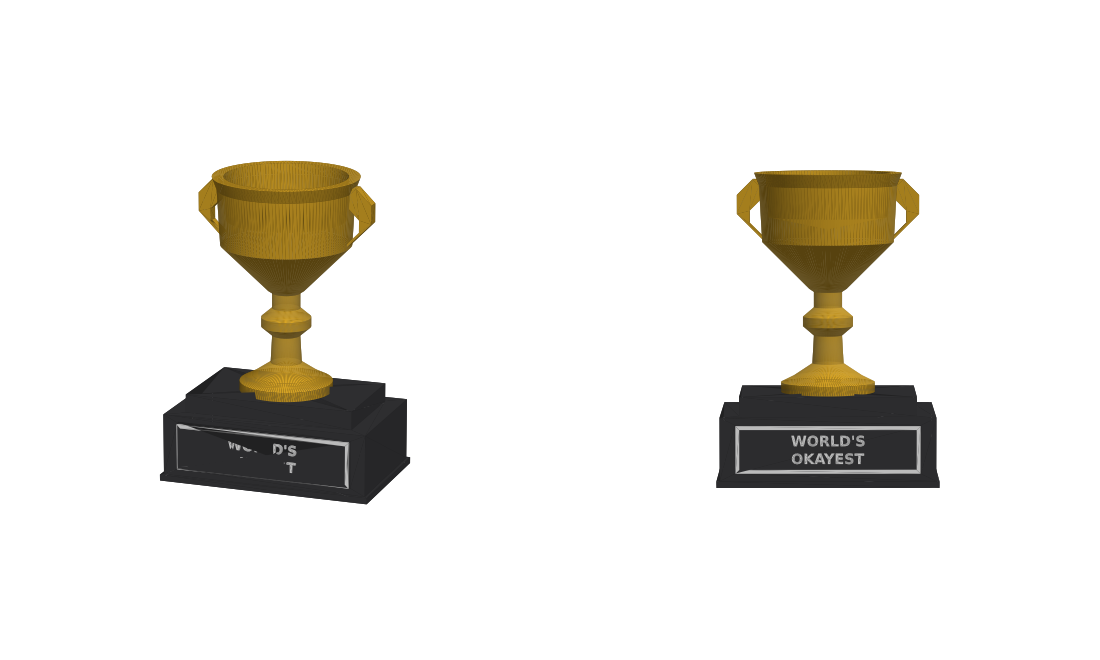
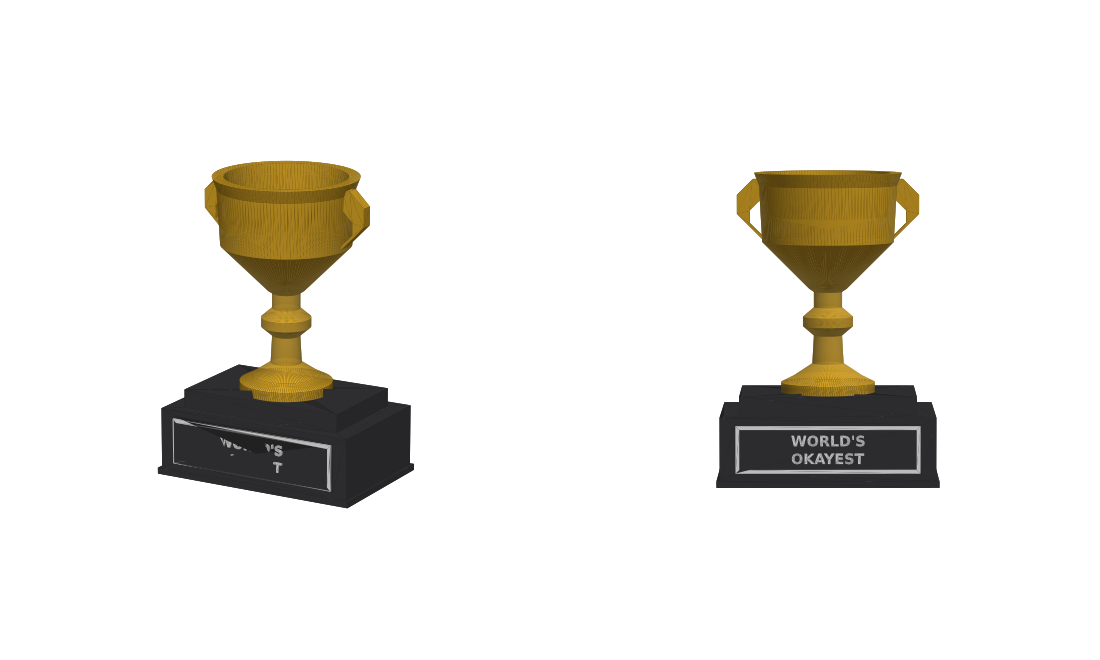
Document the award project for resuming work; add preview script
Claude-Session: https://claude.ai/code/session_01MbrAtDSXX8Tr4F38r5ZzJG

diff --git a/award/preview.py b/award/preview.py
@@ -1,0 +1,58 @@
+#!/usr/bin/env python3
+"""Render a preview PNG of the assembled award (base + plaque + a topper).
+
+Usage: python preview.py cup preview.png
+       python preview.py clef clef_preview.png
+"""
+import os
+import sys
+
+import matplotlib
+import numpy as np
+import trimesh
+
+matplotlib.use("Agg")
+import matplotlib.pyplot as plt  # noqa: E402
+from mpl_toolkits.mplot3d.art3d import Poly3DCollection  # noqa: E402
+
+import award  # noqa: E402
+
+BLACK, GOLD, WHITE = (0.12, 0.12, 0.13), (0.85, 0.65, 0.15), (0.97, 0.97, 0.97)
+
+
+def scene(topper):
+    parts, placements = award.build("WORLD'S\\nOKAYEST")
+    top = award.BASE_H + award.TIER[2]
+    if topper == "cup":
+        t = parts["cup"]
+    elif topper == "clef":
+        import clef
+        t = clef.build(next(f for f in clef.FONTS if os.path.exists(f)))
+    else:
+        raise SystemExit(f"unknown topper {topper!r}")
+    t.apply_translation((0, 0, top))
+    for name in ("plaque_black", "plaque_white"):
+        parts[name].apply_transform(placements[name])
+    return [(parts["base"], BLACK), (parts["plaque_black"], BLACK), (parts["plaque_white"], WHITE), (t, GOLD)]
+
+
+def render(meshes, out):
+    light = np.array([0.3, -0.6, 0.75])
+    light /= np.linalg.norm(light)
+    fig = plt.figure(figsize=(10, 6))
+    for i, (el, az) in enumerate([(15, -60), (5, -90)]):
+        ax = fig.add_subplot(1, 2, i + 1, projection="3d")
+        tris, cols = [], []
+        for m, c in meshes:
+            shade = np.clip(m.face_normals @ light, 0, 1)[:, None] * 0.6 + 0.4
+            tris.append(m.vertices[m.faces])
+            cols.append(np.clip(np.array(c) * shade + (0.08 if c[0] < 0.5 else 0), 0, 1))
+        ax.add_collection3d(Poly3DCollection(np.vstack(tris), facecolors=np.vstack(cols), linewidths=0))
+        ax.set_xlim(-50, 50), ax.set_ylim(-50, 50), ax.set_zlim(0, 100)
+        ax.set_box_aspect((1, 1, 1)), ax.view_init(el, az), ax.axis("off")
+    plt.tight_layout()
+    plt.savefig(out, dpi=110)
+
+
+if __name__ == "__main__":
+    render(scene(sys.argv[1]), sys.argv[2])

diff --git a/award/README.md b/award/README.md
@@ -1,39 +1,72 @@
 # award
 
-A 3D-printable trophy: a black stepped base, a cup with handles, and a separate black plaque with white text.
-Assembled it is 70 × 47 × 98 mm.
+A modular 3D-printable trophy. There's one common base with a plaque, and toppers that swap onto it: a cup, a treble clef, and more to come.
+Everything is generated by Python scripts, and the STLs in this folder are the committed output.
 
-| File | Colour | Notes |
-|---|---|---|
-| `award_base.stl` | black | Prints upright. The peg on top locates the cup, and the front pocket takes the plaque. |
-| `award_cup.stl` | your choice (gold, for the full effect) | Prints upright on its foot. There's a socket underneath for the peg. |
-| `award_plaque.stl` | black, then white | Single-extruder version. Prints flat, text up. Add a filament change at **z = 1.6 mm** (the first layer above the plate). |
-| `award_plaque_black.stl` + `award_plaque_white.stl` | black + white | The same plaque split into two bodies for multi-material printers (AMS/MMU). Import both and keep them aligned. |
-| `award_plaque_frame.stl` | white | Just the border frame, with no text. It sits at z = 1.6–2.2 mm, on top of `award_plaque_black.stl`. Use the two together to add your own text in Bambu Studio (see below). |
+| Cup | Treble clef |
+|---|---|
+| ![cup](preview.png) | ![clef](clef_preview.png) |
 
-None of the parts need supports. Glue the plaque into the pocket and the cup onto the peg. The parts have 0.2 mm of clearance; change `FIT` if your printer disagrees.
+## Files
+
+| File | Made by | Colour | Print |
+|---|---|---|---|
+| `award_base.stl` | `award.py` | black | Upright, no supports. It has a peg on top and a pocket on the front for the plaque. |
+| `award_cup.stl` | `award.py` | gold | Upright on its foot, no supports. |
+| `award_clef.stl` | `clef.py` | gold | Upright on its foot, **with tree supports** under the curls. |
+| `award_plaque.stl` | `award.py` | black, then white | Flat, text up. Add a filament change at z = 1.6 mm. |
+| `award_plaque_black.stl` + `award_plaque_white.stl` | `award.py` | black + white | The same plaque split into two bodies for AMS/MMU printers. |
+| `award_plaque_frame.stl` | `award.py` | white | Just the border, at z = 1.6–2.2 mm. Pair it with `award_plaque_black.stl` and add your text in Bambu Studio (see below). |
+
+To assemble, glue the plaque into the pocket and drop the topper onto the peg (glue optional).
+
+## Regenerating
 
 ```
 pip install trimesh manifold3d shapely mapbox_earcut matplotlib
-python award.py --text "BEST\nHUMAN" --out .
+apt install fonts-freefont-ttf          # FreeSerif, for the clef glyph
+python award.py --text "BEST\nHUMAN" --out .     # base, cup, plaques
+python clef.py --out .                            # clef
+python preview.py cup preview.png                 # preview renders
+python preview.py clef clef_preview.png
 ```
 
-Long text is shrunk to fit the plaque. Print the plaque at 0.12 to 0.16 mm layers so the small letters stay crisp.
+Both scripts print each part's size and whether it is watertight; check that it is. If the plaque text is too long it's shrunk to fit. `award.py --assembled` and `clef.py --assembled` also write the parts in their assembled positions as `assembled_*.stl`, which is useful for checking how they fit. Don't commit those files.
+
+## Design spec
+
+All dimensions are in mm. The constants are at the top of `award.py`, and `clef.py` imports them from there.
+
+- **Base:** 70 × 45 footprint, which is the user's hard limit of **7 cm maximum width**. It's a 22 mm block with a 56 × 34 × 6 tier on top, so the top surface is at **z = 28**.
+- **Plaque:** 58 × 15 × 1.6 black plate with a 0.6 mm white border and text, glued into a 1 mm deep pocket on the front of the base. The text is DejaVu Sans Bold.
+- **Peg:** r = 4, 4 tall, in the centre of the top tier.
+- **Clearance (`FIT`):** 0.2 per side for every part that slots into another.
+
+### Topper interface
+
+Every topper has to match the cup's:
+
+- **Foot:** revolved profile `(15,0) (15,3) (11,5) (7,9)`, which is 30 mm across at the bottom.
+- **Socket:** underneath the foot, r = PEG_R + FIT = 4.2 and depth PEG_H + FIT = 4.2. It's a short flat bridge when printing, which is fine.
+- **Height:** **`CUP_H = 70`** above the base, so the whole award is 98 mm tall. Derive a new topper's height from `CUP_H`; don't hard-code it.
+- **Origin:** z = 0 at the bottom of the foot, centred on the peg axis. That's also the print orientation.
+- **Width:** stay under 70 (the cup is 58 across its handles).
+
+`clef.py` is the template for a new topper. It makes a shape, sinks a hidden tab into the foot's neck so the two fuse solidly, unions it with the foot, and subtracts the socket.
 
 ## Adding your own text in Bambu Studio
 
-1. Import `award_plaque_black.stl` and `award_plaque_frame.stl` together. When it asks whether to load them as a single object with multiple parts, say **yes**. That keeps the frame on top of the plate.
-2. Give the frame part white filament and the plate black.
-3. Right-click the object, choose **Add part → Text**, and click the top of the plate to place the text. Set the depth to **0.6 mm** so it's level with the frame, and give it white filament.
+1. Import `award_plaque_black.stl` and `award_plaque_frame.stl` together. When it asks whether to load them as a single object with multiple parts, say **yes**.
+2. Give the plate black filament and the frame white.
+3. Right-click the object, choose **Add part → Text**, place the text on the plate, set its depth to **0.6 mm**, and give it white filament.
 
-## Treble clef version
+## Notes and gotchas
 
-`clef.py` makes `award_clef.stl`, a one-piece topper that replaces the cup. The clef sits on the same foot as the cup, with the same hollow socket underneath, so it drops straight onto the base's peg. It is the same height as the cup.
+- The clef glyph is U+1D11E from FreeSerif. Its strokes are thickened by 0.7 mm (`STROKE`) so they don't snap, and it's 6 mm thick.
+- The clef used to be two parts: a flat-printed clef glued into a separate stand. The user wanted it as one piece that sits straight on the peg, so it now prints upright with supports.
+- Nothing has been test-printed yet, so the 0.2 mm `FIT` is unverified.
+- In the left preview view the plaque looks smeared. That's matplotlib's painter's algorithm, not a fault in the model.
 
-Print it standing on its foot. The curls of the clef overhang, so turn on tree supports; they only touch a few small spots. The clef is 6 mm thick, and its edges are thickened by 0.7 mm so the thin strokes don't snap.
+## Next steps
 
-The glyph comes from FreeSerif (`apt install fonts-freefont-ttf`); to use another font with U+1D11E, pass `--font`.
-
-```
-python clef.py --out .
-```
+- [ ] **award_lady**: the user has an existing model called `award_lady` that's on their machine, not in this repo. Add a foot with a peg socket to it, as `clef.py` does, and scale it so its height above the base is `CUP_H`. Before starting, get the file attached, pushed to the repo, or shared through Remote Control. If it has a flat bottom, sink it about 3 mm into the foot so the two fuse.
